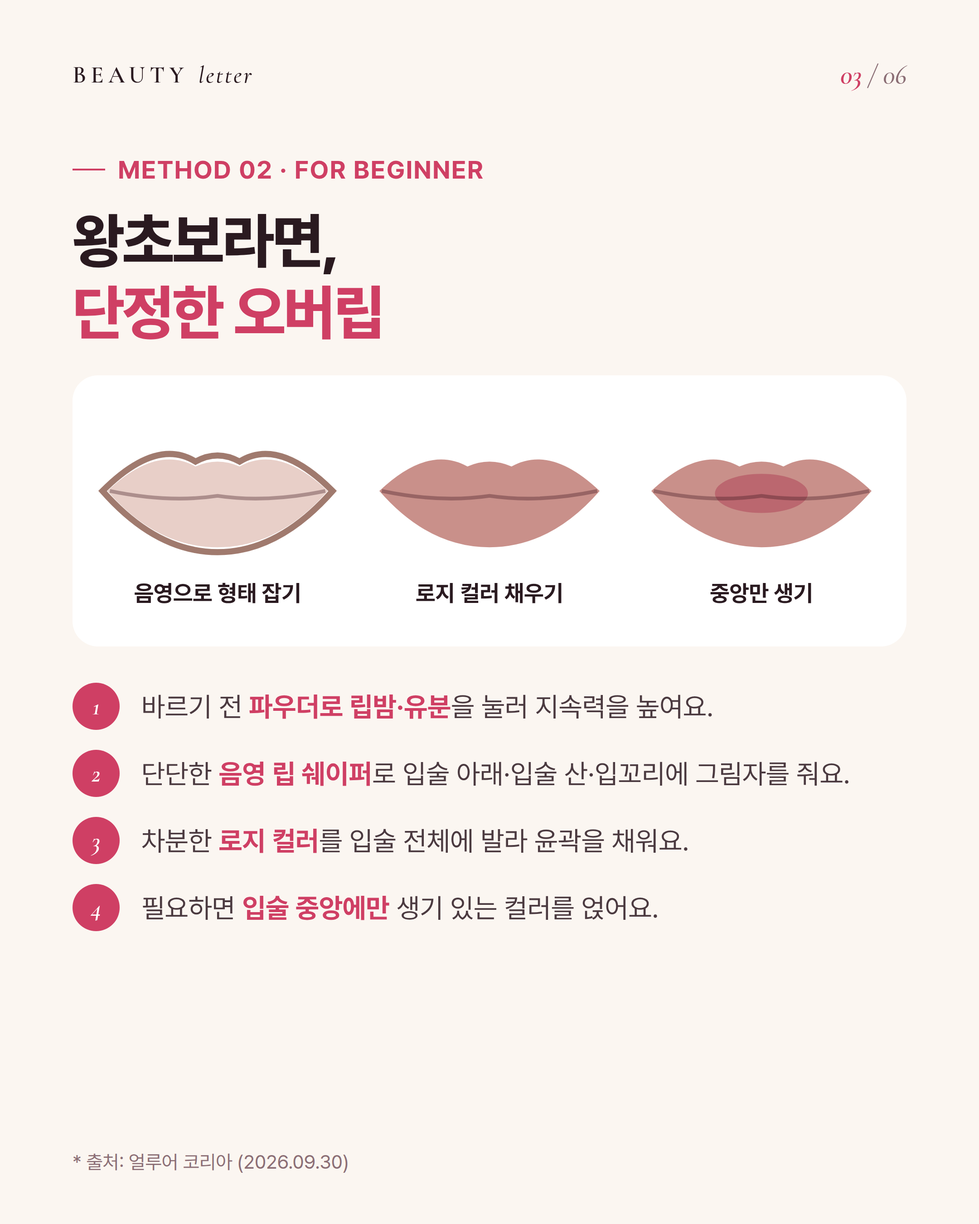
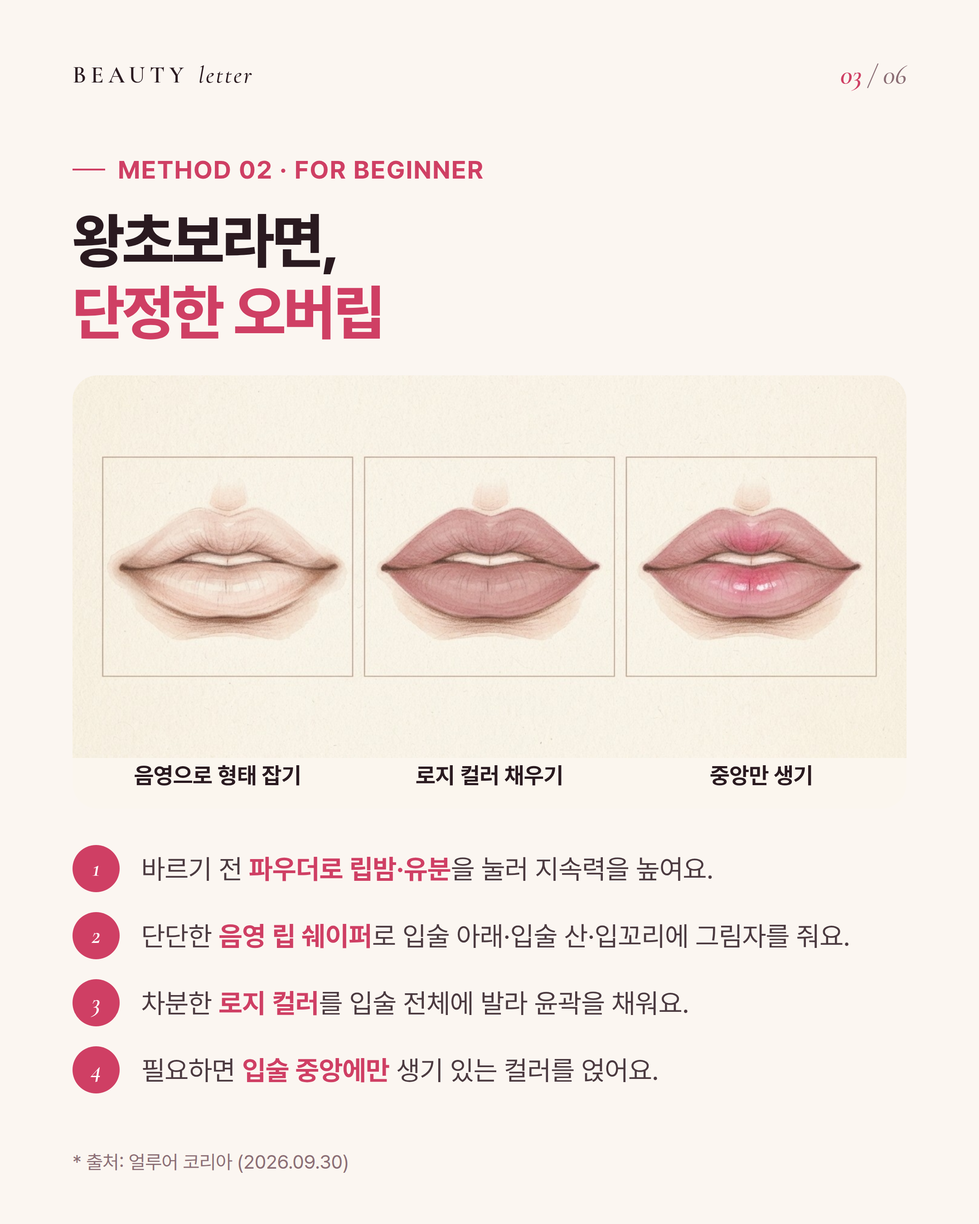
뷰티레터: 10/5·10/6 예시 그림을 수채화 일러스트로 교체
Claude-Session: https://claude.ai/code/session_01M29FXMb16fvzM5BCrcufte

diff --git a/design/beauty_news/letters/2026-10-05_pm_lip/slides.html b/design/beauty_news/letters/2026-10-05_pm_lip/slides.html
@@ -15,13 +15,13 @@
   <div class="body"><div class="kicker"><span class="cat">Issue Letter</span><span class="sep">·</span><span>MEOLMEOL LIP</span></div><h1>요즘 다들 바르는<br/><span class="em">'멀멀 립'</span> 만드는 법</h1><p class="sub">펜슬, 틴트, 글로스까지 차곡차곡.<br/>4가지 방법을 담았어요.</p></div>
   </section>
 <section class="card mlip" data-name="02_m1"><div class="topbar"><div class="wordmark" style="font-size:26px;letter-spacing:5px">BEAUTY <i>letter</i></div><div class="pageno"><b>02</b> / 06</div></div><div class="kicker">METHOD 01 · BLUR + GLOSS</div><h2>블러 틴트 깔고,<br/><span class="hl">채도는 낮추고</span></h2>
-<div class="vis"><div><div class="l"><svg viewBox="0 0 200 106" width="200"><path d="M10 50 Q50 12 82 30 Q100 22 118 30 Q150 12 190 50 Q150 96 100 96 Q50 96 10 50 Z" fill="#E9C9C3"/><path d="M12 50 Q60 60 100 54 Q140 60 188 50" stroke="rgba(60,20,30,.35)" stroke-width="3" fill="none"/><path d="M6 50 Q50 6 82 26 Q100 16 118 26 Q150 6 194 50 Q150 100 100 100 Q50 100 6 50 Z" fill="none" stroke="#9B6E7E" stroke-width="5"/></svg></div><span>모브 펜슬로 오버립</span></div><div><div class="l"><svg viewBox="0 0 200 106" width="200"><path d="M10 50 Q50 12 82 30 Q100 22 118 30 Q150 12 190 50 Q150 96 100 96 Q50 96 10 50 Z" fill="#C98D86"/><path d="M12 50 Q60 60 100 54 Q140 60 188 50" stroke="rgba(60,20,30,.35)" stroke-width="3" fill="none"/></svg></div><span>블러 틴트 베이스</span></div><div><div class="l"><svg viewBox="0 0 200 106" width="200"><path d="M10 50 Q50 12 82 30 Q100 22 118 30 Q150 12 190 50 Q150 96 100 96 Q50 96 10 50 Z" fill="#CDA39D"/><path d="M12 50 Q60 60 100 54 Q140 60 188 50" stroke="rgba(60,20,30,.35)" stroke-width="3" fill="none"/><ellipse cx="100" cy="68" rx="34" ry="7" fill="rgba(255,255,255,.45)"/></svg></div><span>글로스로 물먹립</span></div></div><ol><li><b>1</b><p><b>모브 톤 립 펜슬</b>로 입술 라인을 넓혀 원하는 오버립 윤곽을 잡아요.</p></li><li><b>2</b><p>주름을 메워주는 보송한 <b>블러 틴트</b>를 베이스로 넓게 깔아요.</p></li><li><b>3</b><p>색이 너무 쨍하면 <b>흰기 도는 투명한 립</b>을 덧발라 채도를 낮춰요.</p></li><li><b>4</b><p>마지막에 <b>바닐라 빛 볼륨 글로스</b>를 은은하게 얹어요.</p></li></ol><div class="foot">* 출처: 얼루어 코리아 (2026.09.30)</div></section>
+<div class="vis illu"><img src="img/illu_m1.jpg" alt=""/><div class="lb"><span>모브 펜슬로 오버립</span><span>블러 틴트 베이스</span><span>글로스로 물먹립</span></div></div><ol><li><b>1</b><p><b>모브 톤 립 펜슬</b>로 입술 라인을 넓혀 원하는 오버립 윤곽을 잡아요.</p></li><li><b>2</b><p>주름을 메워주는 보송한 <b>블러 틴트</b>를 베이스로 넓게 깔아요.</p></li><li><b>3</b><p>색이 너무 쨍하면 <b>흰기 도는 투명한 립</b>을 덧발라 채도를 낮춰요.</p></li><li><b>4</b><p>마지막에 <b>바닐라 빛 볼륨 글로스</b>를 은은하게 얹어요.</p></li></ol><div class="foot">* 출처: 얼루어 코리아 (2026.09.30)</div></section>
 <section class="card mlip" data-name="03_m2"><div class="topbar"><div class="wordmark" style="font-size:26px;letter-spacing:5px">BEAUTY <i>letter</i></div><div class="pageno"><b>03</b> / 06</div></div><div class="kicker">METHOD 02 · FOR BEGINNER</div><h2>왕초보라면,<br/><span class="hl">단정한 오버립</span></h2>
-<div class="vis"><div><div class="l"><svg viewBox="0 0 200 106" width="200"><path d="M10 50 Q50 12 82 30 Q100 22 118 30 Q150 12 190 50 Q150 96 100 96 Q50 96 10 50 Z" fill="#E8CFC8"/><path d="M12 50 Q60 60 100 54 Q140 60 188 50" stroke="rgba(60,20,30,.35)" stroke-width="3" fill="none"/><path d="M6 50 Q50 6 82 26 Q100 16 118 26 Q150 6 194 50 Q150 100 100 100 Q50 100 6 50 Z" fill="none" stroke="#A07A6E" stroke-width="5"/></svg></div><span>음영으로 형태 잡기</span></div><div><div class="l"><svg viewBox="0 0 200 106" width="200"><path d="M10 50 Q50 12 82 30 Q100 22 118 30 Q150 12 190 50 Q150 96 100 96 Q50 96 10 50 Z" fill="#C9908A"/><path d="M12 50 Q60 60 100 54 Q140 60 188 50" stroke="rgba(60,20,30,.35)" stroke-width="3" fill="none"/></svg></div><span>로지 컬러 채우기</span></div><div><div class="l"><svg viewBox="0 0 200 106" width="200"><path d="M10 50 Q50 12 82 30 Q100 22 118 30 Q150 12 190 50 Q150 96 100 96 Q50 96 10 50 Z" fill="#C9908A"/><ellipse cx="100" cy="52" rx="38" ry="16" fill="#B8606A" opacity=".85"/><path d="M12 50 Q60 60 100 54 Q140 60 188 50" stroke="rgba(60,20,30,.35)" stroke-width="3" fill="none"/></svg></div><span>중앙만 생기</span></div></div><ol><li><b>1</b><p>바르기 전 <b>파우더로 립밤·유분</b>을 눌러 지속력을 높여요.</p></li><li><b>2</b><p>단단한 <b>음영 립 쉐이퍼</b>로 입술 아래·입술 산·입꼬리에 그림자를 줘요.</p></li><li><b>3</b><p>차분한 <b>로지 컬러</b>를 입술 전체에 발라 윤곽을 채워요.</p></li><li><b>4</b><p>필요하면 <b>입술 중앙에만</b> 생기 있는 컬러를 얹어요.</p></li></ol><div class="foot">* 출처: 얼루어 코리아 (2026.09.30)</div></section>
+<div class="vis illu"><img src="img/illu_m2.jpg" alt=""/><div class="lb"><span>음영으로 형태 잡기</span><span>로지 컬러 채우기</span><span>중앙만 생기</span></div></div><ol><li><b>1</b><p>바르기 전 <b>파우더로 립밤·유분</b>을 눌러 지속력을 높여요.</p></li><li><b>2</b><p>단단한 <b>음영 립 쉐이퍼</b>로 입술 아래·입술 산·입꼬리에 그림자를 줘요.</p></li><li><b>3</b><p>차분한 <b>로지 컬러</b>를 입술 전체에 발라 윤곽을 채워요.</p></li><li><b>4</b><p>필요하면 <b>입술 중앙에만</b> 생기 있는 컬러를 얹어요.</p></li></ol><div class="foot">* 출처: 얼루어 코리아 (2026.09.30)</div></section>
 <section class="card mlip" data-name="04_m3"><div class="topbar"><div class="wordmark" style="font-size:26px;letter-spacing:5px">BEAUTY <i>letter</i></div><div class="pageno"><b>04</b> / 06</div></div><div class="kicker">METHOD 03 · MIX</div><h2>안 쓰는 쨍한 립,<br/><span class="hl">미지근하게 살리기</span></h2>
-<div class="vis"><div><div class="l"><svg viewBox="0 0 200 106" width="200"><path d="M10 50 Q50 12 82 30 Q100 22 118 30 Q150 12 190 50 Q150 96 100 96 Q50 96 10 50 Z" fill="#D9B2A8"/><path d="M12 50 Q60 60 100 54 Q140 60 188 50" stroke="rgba(60,20,30,.35)" stroke-width="3" fill="none"/></svg></div><span>누드 핑크 베이스</span></div><div><div class="l"><svg viewBox="0 0 200 106" width="200"><path d="M10 50 Q50 12 82 30 Q100 22 118 30 Q150 12 190 50 Q150 96 100 96 Q50 96 10 50 Z" fill="#D9B2A8"/><ellipse cx="100" cy="52" rx="38" ry="16" fill="#D0364E" opacity=".85"/><path d="M12 50 Q60 60 100 54 Q140 60 188 50" stroke="rgba(60,20,30,.35)" stroke-width="3" fill="none"/></svg></div><span>안쪽만 고채도</span></div><div><div class="l"><svg viewBox="0 0 200 106" width="200"><path d="M10 50 Q50 12 82 30 Q100 22 118 30 Q150 12 190 50 Q150 96 100 96 Q50 96 10 50 Z" fill="#B4787A"/><path d="M12 50 Q60 60 100 54 Q140 60 188 50" stroke="rgba(60,20,30,.35)" stroke-width="3" fill="none"/></svg></div><span>섞으면 미지근톤</span></div></div><ol><li><b>1</b><p><b>베이지 핑크·누드 핑크</b>를 베이스로 넓게 깔아요.</p></li><li><b>2</b><p>그 위 <b>입술 안쪽에만</b> 쨍한 립을 두드려 얹어요.</p></li><li><b>3</b><p>또는 회색빛 도는 <b>창백한 쿨톤 립</b>과 쨍한 립을 섞어 직접 조색해요.</p></li></ol><div class="foot">* 출처: 얼루어 코리아 (2026.09.30)</div></section>
+<div class="vis illu"><img src="img/illu_m3.jpg" alt=""/><div class="lb"><span>누드 핑크 베이스</span><span>안쪽만 고채도</span><span>섞으면 미지근톤</span></div></div><ol><li><b>1</b><p><b>베이지 핑크·누드 핑크</b>를 베이스로 넓게 깔아요.</p></li><li><b>2</b><p>그 위 <b>입술 안쪽에만</b> 쨍한 립을 두드려 얹어요.</p></li><li><b>3</b><p>또는 회색빛 도는 <b>창백한 쿨톤 립</b>과 쨍한 립을 섞어 직접 조색해요.</p></li></ol><div class="foot">* 출처: 얼루어 코리아 (2026.09.30)</div></section>
 <section class="card mlip" data-name="05_m4"><div class="topbar"><div class="wordmark" style="font-size:26px;letter-spacing:5px">BEAUTY <i>letter</i></div><div class="pageno"><b>05</b> / 06</div></div><div class="kicker">METHOD 04 · MATTE</div><h2>가을엔 톡톡,<br/><span class="hl">매트 오버립</span></h2>
-<div class="vis"><div><div class="l"><svg viewBox="0 0 200 106" width="200"><path d="M10 50 Q50 12 82 30 Q100 22 118 30 Q150 12 190 50 Q150 96 100 96 Q50 96 10 50 Z" fill="#E6CFC6"/><path d="M12 50 Q60 60 100 54 Q140 60 188 50" stroke="rgba(60,20,30,.35)" stroke-width="3" fill="none"/><path d="M6 50 Q50 6 82 26 Q100 16 118 26 Q150 6 194 50 Q150 100 100 100 Q50 100 6 50 Z" fill="none" stroke="#B07E62" stroke-width="5"/></svg></div><span>피치·브라운 펜슬</span></div><div><div class="l"><svg viewBox="0 0 200 106" width="200"><path d="M10 50 Q50 12 82 30 Q100 22 118 30 Q150 12 190 50 Q150 96 100 96 Q50 96 10 50 Z" fill="#A8705C"/><path d="M12 50 Q60 60 100 54 Q140 60 188 50" stroke="rgba(60,20,30,.35)" stroke-width="3" fill="none"/></svg></div><span>브라운 매트 톡톡</span></div><div><div class="l"><svg viewBox="0 0 200 106" width="200"><path d="M10 50 Q50 12 82 30 Q100 22 118 30 Q150 12 190 50 Q150 96 100 96 Q50 96 10 50 Z" fill="#A8705C"/><ellipse cx="100" cy="52" rx="38" ry="16" fill="#8E5A48" opacity=".85"/><path d="M12 50 Q60 60 100 54 Q140 60 188 50" stroke="rgba(60,20,30,.35)" stroke-width="3" fill="none"/></svg></div><span>도톰하면 안쪽만</span></div></div><ol><li><b>1</b><p>파운데이션으로 덮지 말고 <b>피치·브라운 펜슬</b>로 칙칙한 입술 라인부터 교정해요.</p></li><li><b>2</b><p><b>베이지·브라운 매트 립</b>을 손가락이나 브러시로 톡톡 얇게 밀착해요.</p></li><li><b>3</b><p>라인이 진해 보이지 않게 <b>펜슬로 경계를 한 번 더 풀어요.</b></p></li><li><b>4</b><p>입술이 도톰하면 <b>안쪽에만</b> 발라 여백을 남겨요.</p></li></ol><div class="foot">* 출처: 얼루어 코리아 (2026.09.30)</div></section>
+<div class="vis illu"><img src="img/illu_m4.jpg" alt=""/><div class="lb"><span>피치·브라운 펜슬</span><span>브라운 매트 톡톡</span><span>도톰하면 안쪽만</span></div></div><ol><li><b>1</b><p>파운데이션으로 덮지 말고 <b>피치·브라운 펜슬</b>로 칙칙한 입술 라인부터 교정해요.</p></li><li><b>2</b><p><b>베이지·브라운 매트 립</b>을 손가락이나 브러시로 톡톡 얇게 밀착해요.</p></li><li><b>3</b><p>라인이 진해 보이지 않게 <b>펜슬로 경계를 한 번 더 풀어요.</b></p></li><li><b>4</b><p>입술이 도톰하면 <b>안쪽에만</b> 발라 여백을 남겨요.</p></li></ol><div class="foot">* 출처: 얼루어 코리아 (2026.09.30)</div></section>
 
 <section class="card ps" data-name="06_ps"><div class="bgimg"><img src="img/cover_photo.jpg" alt="" /></div><div class="wordmark">BEAUTY <i>letter</i></div>
   <div class="inner"><div class="ps-mark">P.S.</div><div class="note"><div class="label">에디터의 한 줄 팁</div><p>멀멀 립의 핵심은 <b>채도 낮추기.</b> 새로 사지 말고<br/>갖고 있는 쨍한 립에 누드 핑크를 섞어 먼저 만들어 보세요.</p></div>

diff --git a/design/beauty_news/letters/2026-10-06_am_uleok/slides.html b/design/beauty_news/letters/2026-10-06_am_uleok/slides.html
@@ -14,9 +14,9 @@
 <section class="card cover-photo" data-name="01_cover"><div data-slot="photo"><img src="img/cover_photo.jpg" alt="" style="object-position:center 30%" /></div><div class="shade"></div><div class="topbar"><div class="wordmark">BEAUTY <i>letter</i></div></div>
   <div class="body"><div class="kicker"><span class="cat">Issue Letter</span><span class="sep">·</span><span>ULEOK MAKEUP</span></div><h1>우는 것도 예쁘게,<br/><span class="em">'울먹' 메이크업</span></h1><p class="sub">울고 난 듯 발그레한 눈가와 코끝.<br/>아련한 가을 얼굴 만드는 법.</p></div>
   </section>
-<section class="card lt" data-name="02_what"><div class="topbar"><div class="wordmark" style="font-size:26px;letter-spacing:5px">BEAUTY <i>letter</i></div><div class="pageno"><b>02</b> / 06</div></div><div class="kicker">WHAT IS ULEOK</div><h2>낮술 다음은,<br/><span class="hl">울먹</span></h2><div class="vis"><div class="off"><svg viewBox="0 0 240 280" width="300"><defs><radialGradient id="rn"><stop offset="0" stop-color="#E0626F" stop-opacity=".75"/><stop offset="1" stop-color="#E0626F" stop-opacity="0"/></radialGradient></defs><path d="M30 120 Q30 20 120 18 Q210 20 210 120 L214 250 L26 250 Z" fill="#3A2A24"/><ellipse cx="120" cy="148" rx="76" ry="96" fill="#F3D6C4"/><path d="M48 104 Q60 40 120 40 Q180 40 192 104 Q160 70 120 72 Q80 70 48 104 Z" fill="#3A2A24"/><ellipse cx="86" cy="160" rx="28" ry="16" fill="url(#rn)"/><ellipse cx="154" cy="160" rx="28" ry="16" fill="url(#rn)"/><path d="M66 116 Q84 106 102 114" stroke="#5A3D32" stroke-width="5" fill="none" stroke-linecap="round"/><path d="M138 114 Q156 106 174 116" stroke="#5A3D32" stroke-width="5" fill="none" stroke-linecap="round"/><path d="M70 138 Q85 128 100 138" stroke="#3A2A24" stroke-width="4" fill="none" stroke-linecap="round"/><path d="M140 138 Q155 128 170 138" stroke="#3A2A24" stroke-width="4" fill="none" stroke-linecap="round"/><path d="M118 150 Q114 176 110 182 Q120 188 130 182" stroke="#C9A08C" stroke-width="3" fill="none" stroke-linecap="round"/><path d="M98 206 Q120 198 142 206 Q120 222 98 206 Z" fill="#D88A86"/></svg><span>낮술 · 눈 밑만 발그레</span></div><div class="on"><svg viewBox="0 0 240 280" width="300"><defs><radialGradient id="ru"><stop offset="0" stop-color="#E0626F" stop-opacity=".75"/><stop offset="1" stop-color="#E0626F" stop-opacity="0"/></radialGradient></defs><path d="M30 120 Q30 20 120 18 Q210 20 210 120 L214 250 L26 250 Z" fill="#3A2A24"/><ellipse cx="120" cy="148" rx="76" ry="96" fill="#F3D6C4"/><path d="M48 104 Q60 40 120 40 Q180 40 192 104 Q160 70 120 72 Q80 70 48 104 Z" fill="#3A2A24"/><ellipse cx="85" cy="128" rx="24" ry="12" fill="url(#ru)"/><ellipse cx="155" cy="128" rx="24" ry="12" fill="url(#ru)"/><ellipse cx="85" cy="150" rx="24" ry="10" fill="url(#ru)"/><ellipse cx="155" cy="150" rx="24" ry="10" fill="url(#ru)"/><ellipse cx="120" cy="180" rx="16" ry="11" fill="url(#ru)"/><ellipse cx="98" cy="208" rx="10" ry="8" fill="url(#ru)"/><ellipse cx="142" cy="208" rx="10" ry="8" fill="url(#ru)"/><ellipse cx="84" cy="112" rx="18" ry="7" fill="url(#ru)"/><ellipse cx="156" cy="112" rx="18" ry="7" fill="url(#ru)"/><path d="M66 116 Q84 106 102 114" stroke="#5A3D32" stroke-width="5" fill="none" stroke-linecap="round"/><path d="M138 114 Q156 106 174 116" stroke="#5A3D32" stroke-width="5" fill="none" stroke-linecap="round"/><path d="M70 138 Q85 128 100 138" stroke="#3A2A24" stroke-width="4" fill="none" stroke-linecap="round"/><path d="M140 138 Q155 128 170 138" stroke="#3A2A24" stroke-width="4" fill="none" stroke-linecap="round"/><path d="M118 150 Q114 176 110 182 Q120 188 130 182" stroke="#C9A08C" stroke-width="3" fill="none" stroke-linecap="round"/><path d="M98 206 Q120 198 142 206 Q120 222 98 206 Z" fill="#D88A86"/></svg><span>울먹 · 눈가·코끝·입가</span></div></div><p class="ds">눈 밑만 물들이던 낮술 메이크업 다음 유행은 <b>울고 난 것처럼</b> 눈과 코 주변이 붉은 울먹 메이크업이에요.</p><div class="tip"><span>POINT</span>붉은 기를 넓게 펴지 말고, 눈가·코끝·입가에 조금씩 나눠 얹어요.</div><div class="foot">* 출처: 얼루어 코리아 (2026.10.02)</div></section>
+<section class="card lt" data-name="02_what"><div class="topbar"><div class="wordmark" style="font-size:26px;letter-spacing:5px">BEAUTY <i>letter</i></div><div class="pageno"><b>02</b> / 06</div></div><div class="kicker">WHAT IS ULEOK</div><h2>낮술 다음은,<br/><span class="hl">울먹</span></h2><div class="vis illu"><img src="img/illu_what.jpg" alt=""/><div class="lb"><span>낮술 · 눈 밑만 발그레</span><span class="on">울먹 · 눈가·코끝·입가</span></div></div><p class="ds">눈 밑만 물들이던 낮술 메이크업 다음 유행은 <b>울고 난 것처럼</b> 눈과 코 주변이 붉은 울먹 메이크업이에요.</p><div class="tip"><span>POINT</span>붉은 기를 넓게 펴지 말고, 눈가·코끝·입가에 조금씩 나눠 얹어요.</div><div class="foot">* 출처: 얼루어 코리아 (2026.10.02)</div></section>
 <section class="card lt" data-name="03_m1"><div class="topbar"><div class="wordmark" style="font-size:26px;letter-spacing:5px">BEAUTY <i>letter</i></div><div class="pageno"><b>03</b> / 06</div></div><div class="kicker">METHOD 01 · ROSE SHADOW</div><h2>장미빛 섀도 하나로<br/><span class="hl">살짝 쓸어주기</span></h2><div class="vis photo"><img src="img/palette.jpg" alt="" style="object-position:center 55%"/><div class="chips"><div><i style="background:#C9A48C"></i><span>베이지</span></div><div><i style="background:#E7A9A9"></i><span>핑크</span></div><div><i style="background:#B9606B"></i><span>장미빛</span></div></div></div><ol><li><b>1</b><p>눈두덩엔 <b>베이지·브라운</b> 섀도로 차분하게 베이스를 깔아요.</p></li><li><b>2</b><p>언더(눈 밑)는 <b>핑크 톤</b>으로 은은하게 잡아요.</p></li><li><b>3</b><p><b>장미빛 섀도</b>를 코끝·입가·눈썹·눈두덩에 브러시로 가볍게 쓸어줘요.</p></li></ol><div class="foot">* 출처: 얼루어 코리아 (2026.10.02)</div></section>
-<section class="card lt" data-name="04_m2"><div class="topbar"><div class="wordmark" style="font-size:26px;letter-spacing:5px">BEAUTY <i>letter</i></div><div class="pageno"><b>04</b> / 06</div></div><div class="kicker">METHOD 02 · PEACH PENCIL</div><h2>살구빛 펜슬 하나면<br/><span class="hl">눈도 입술도 끝</span></h2><div class="vis eyelip"><div><svg viewBox="0 0 200 100" width="330"><rect width="200" height="100" fill="#F3D6C4" rx="18"/><path d="M28 50 Q100 0 172 50 Q100 28 28 50 Z" fill="#E7A58C" opacity=".8"/><path d="M30 52 Q100 6 170 52 Q100 82 30 52 Z" fill="#fff"/><circle cx="100" cy="50" r="20" fill="#4A3428"/><circle cx="106" cy="44" r="5" fill="#fff"/><path d="M30 52 Q100 6 170 52" stroke="#2A1A14" stroke-width="5" fill="none"/><path d="M44 62 Q100 76 156 62" stroke="#E2B7A6" stroke-width="5" fill="none"/><ellipse cx="100" cy="74" rx="56" ry="9" fill="rgba(150,95,80,.45)"/></svg><span>애굣살 밑 그림자</span></div><div><svg viewBox="0 0 200 106" width="330"><path d="M10 50 Q50 12 82 30 Q100 22 118 30 Q150 12 190 50 Q150 96 100 96 Q50 96 10 50 Z" fill="#E0A08E"/><path d="M12 50 Q60 60 100 54 Q140 60 188 50" stroke="rgba(60,20,30,.35)" stroke-width="3" fill="none"/><path d="M6 50 Q50 10 100 24 Q150 10 194 50 Q150 100 100 100 Q50 100 6 50 Z" fill="none" stroke="#D99A84" stroke-width="7" opacity=".9"/></svg><span>입술산 허문 오버립</span></div></div><ol><li><b>1</b><p>보송한 <b>벨벳 제형의 살구빛 펜슬</b>을 하나 준비해요.</p></li><li><b>2</b><p><b>애굣살 바로 밑</b>에 살짝 그어 그림자처럼 음영을 줘요.</p></li><li><b>3</b><p>입술 산을 또렷하게 그리지 말고 <b>허물듯 둥글게 오버립</b>을 그려요.</p></li></ol><div class="foot">* 출처: 얼루어 코리아 (2026.10.02)</div></section>
+<section class="card lt" data-name="04_m2"><div class="topbar"><div class="wordmark" style="font-size:26px;letter-spacing:5px">BEAUTY <i>letter</i></div><div class="pageno"><b>04</b> / 06</div></div><div class="kicker">METHOD 02 · PEACH PENCIL</div><h2>살구빛 펜슬 하나면<br/><span class="hl">눈도 입술도 끝</span></h2><div class="vis illu"><img src="img/illu_m2.jpg" alt=""/><div class="lb"><span>애굣살 밑 그림자</span><span>입술산 허문 오버립</span></div></div><ol><li><b>1</b><p>보송한 <b>벨벳 제형의 살구빛 펜슬</b>을 하나 준비해요.</p></li><li><b>2</b><p><b>애굣살 바로 밑</b>에 살짝 그어 그림자처럼 음영을 줘요.</p></li><li><b>3</b><p>입술 산을 또렷하게 그리지 말고 <b>허물듯 둥글게 오버립</b>을 그려요.</p></li></ol><div class="foot">* 출처: 얼루어 코리아 (2026.10.02)</div></section>
 <section class="card lt" data-name="05_tone"><div class="topbar"><div class="wordmark" style="font-size:26px;letter-spacing:5px">BEAUTY <i>letter</i></div><div class="pageno"><b>05</b> / 06</div></div><div class="kicker">PERSONAL COLOR TIP</div><h2>내 톤엔 어떤<br/><span class="hl">울먹 컬러?</span></h2><div class="tone"><div><h3>쿨톤<small>푸른 기 도는 붉은색</small></h3><div class="cs"><div><i style="background:#D98A9A"></i><span>로즈 핑크</span></div><div><i style="background:#B9606B"></i><span>장미빛</span></div><div><i style="background:#A8687E"></i><span>모브</span></div></div></div><div><h3>웜톤<small>노란 기 도는 붉은색</small></h3><div class="cs"><div><i style="background:#E8A48A"></i><span>살구</span></div><div><i style="background:#E08A78"></i><span>코랄</span></div><div><i style="background:#C27E68"></i><span>말린 장미</span></div></div></div></div><div class="tip"><span>주의</span>울먹과 술 취한 얼굴은 한 끗 차이. 욕심내지 말고 <b>얇게, 여러 번</b> 쌓아요.</div><div class="foot">* 컬러칩은 이해를 돕기 위한 예시예요</div></section>
 
 <section class="card ps" data-name="06_ps"><div class="bgimg"><img src="img/cover_photo.jpg" alt="" /></div><div class="wordmark">BEAUTY <i>letter</i></div>

diff --git a/design/beauty_news/letters/2026-10-05_am_trend/slides.html b/design/beauty_news/letters/2026-10-05_am_trend/slides.html
@@ -15,15 +15,15 @@
   <div class="body"><div class="kicker"><span class="cat">Issue Letter</span><span class="sep">·</span><span>FALL MAKEUP TREND</span></div><h1>올가을 메이크업,<br/><span class="em">더하기보다 빼기</span></h1><p class="sub">가을 메이크업 트렌드 5가지,<br/>이것만 기억하세요.</p></div>
   </section>
 <section class="card trend" data-name="02_t1"><div class="topbar"><div class="wordmark" style="font-size:26px;letter-spacing:5px">BEAUTY <i>letter</i></div><div class="pageno"><b>02</b> / 07</div></div><div class="kicker">TREND 01 · BROW</div><h2>가장 먼저 바꿀 건,<br/><span class="hl">얇은 눈썹</span></h2>
-<div class="vis"><div class="cmp"><div><svg viewBox="0 0 200 60" width="240"><path d="M10 45 Q70 8 150 18 Q180 22 192 34 Q170 30 150 32 Q80 30 18 56 Z" fill="#4A3428"/></svg><span>이전 · 두껍고 일자</span></div><div class="on"><svg viewBox="0 0 200 60" width="240"><path d="M14 48 Q80 2 190 30 Q90 14 16 52 Z" fill="#4A3428"/></svg><span>올가을 · 얇은 아치형</span></div></div></div><p class="ds">90년대 무드의 가느다란 아치형 눈썹. 펜으로 그린 듯 얇은 눈썹이 <b>답답해 보이던 인상을 가볍게</b> 만들어줘요.</p><div class="tip"><span>TIP</span>인상이 답답해 보였다면 눈썹부터 얇게 다듬어 보세요.</div><div class="foot">* 출처: 얼루어 코리아 (2026.09.27)</div></section>
+<div class="vis illu"><img src="img/illu_t1.jpg" alt=""/><div class="lb"><span>이전 · 두껍고 일자</span><span class="on">올가을 · 얇은 아치형</span></div></div><p class="ds">90년대 무드의 가느다란 아치형 눈썹. 펜으로 그린 듯 얇은 눈썹이 <b>답답해 보이던 인상을 가볍게</b> 만들어줘요.</p><div class="tip"><span>TIP</span>인상이 답답해 보였다면 눈썹부터 얇게 다듬어 보세요.</div><div class="foot">* 출처: 얼루어 코리아 (2026.09.27)</div></section>
 <section class="card trend" data-name="03_t2"><div class="topbar"><div class="wordmark" style="font-size:26px;letter-spacing:5px">BEAUTY <i>letter</i></div><div class="pageno"><b>03</b> / 07</div></div><div class="kicker">TREND 02 · LIP</div><h2>가을엔 레드립?<br/>이젠 <span class="hl">멀멀한 누드 립</span></h2>
 <div class="vis photo"><img src="img/lip_photo.jpg" alt=""/><div class="chips"><div><i style="background:#C9967E"></i><span>베이지</span></div><div><i style="background:#8E5A45"></i><span>브라운</span></div><div><i style="background:#A9665F"></i><span>로즈 브라운</span></div></div></div><p class="ds">베이지·브라운·로즈 브라운처럼 차분한 컬러. 존재감을 강하게 주장하지 않지만 <b>묘하게 기억에 남는</b> 색이에요.</p><div class="tip"><span>TIP</span>생기가 살짝 느껴질 정도의 차분한 컬러를 고르세요.</div><div class="foot">* 출처: 얼루어 코리아 (2026.09.27)</div></section>
 <section class="card trend" data-name="04_t3"><div class="topbar"><div class="wordmark" style="font-size:26px;letter-spacing:5px">BEAUTY <i>letter</i></div><div class="pageno"><b>04</b> / 07</div></div><div class="kicker">TREND 03 · CHEEK</div><h2>치크는 빼거나,<br/><span class="hl">아주 얇게</span></h2>
-<div class="vis"><div class="cmp"><div class="ck"><div class="face"><i style="opacity:0.75"></i><i class="r" style="opacity:0.75"></i></div><span>여름 · 썬번 블러셔</span></div><div class="on"><div class="ck"><div class="face"><i style="opacity:0.12"></i><i class="r" style="opacity:0.12"></i></div><span>올가을 · 있는 듯 없는 듯</span></div></div></div></div><p class="ds">여름의 썬번 메이크업과 정반대. 치크를 생략하거나 <b>있는 듯 없는 듯</b> 아주 얇게 올리는 안티 블러시예요.</p><div class="tip"><span>TIP</span>치크를 빼는 대신 립이나 눈에 포인트를 주세요.</div><div class="foot">* 출처: 얼루어 코리아 (2026.09.27)</div></section>
+<div class="vis illu"><img src="img/illu_t3.jpg" alt=""/><div class="lb"><span>여름 · 썬번 블러셔</span><span class="on">올가을 · 있는 듯 없는 듯</span></div></div><p class="ds">여름의 썬번 메이크업과 정반대. 치크를 생략하거나 <b>있는 듯 없는 듯</b> 아주 얇게 올리는 안티 블러시예요.</p><div class="tip"><span>TIP</span>치크를 빼는 대신 립이나 눈에 포인트를 주세요.</div><div class="foot">* 출처: 얼루어 코리아 (2026.09.27)</div></section>
 <section class="card trend" data-name="05_t4"><div class="topbar"><div class="wordmark" style="font-size:26px;letter-spacing:5px">BEAUTY <i>letter</i></div><div class="pageno"><b>05</b> / 07</div></div><div class="kicker">TREND 04 · SKIN</div><h2>물광도 매트도 아닌,<br/><span class="hl">세미 글로우</span></h2>
-<div class="vis"><div class="skins"><div class="sk"><i class="matte"></i><span>매트</span></div><div class="on"><div class="sk"><i class="semi"></i><span>세미 글로우</span></div></div><div class="sk"><i class="dewy"></i><span>물광</span></div></div></div><p class="ds">피부 결은 살리면서 은은한 유리알 광택. <b>어떤 룩에도 자연스럽게</b> 어울리는 게 장점이에요.</p><div class="tip"><span>TIP</span>메이크업 전 보습을 충분히, 그다음 촉촉한 파운데이션을 올려요.</div><div class="foot">* 출처: 얼루어 코리아 (2026.09.27)</div></section>
+<div class="vis illu"><img src="img/illu_t4.jpg" alt=""/><div class="lb"><span>매트</span><span class="on">세미 글로우</span><span>물광</span></div></div><p class="ds">피부 결은 살리면서 은은한 유리알 광택. <b>어떤 룩에도 자연스럽게</b> 어울리는 게 장점이에요.</p><div class="tip"><span>TIP</span>메이크업 전 보습을 충분히, 그다음 촉촉한 파운데이션을 올려요.</div><div class="foot">* 출처: 얼루어 코리아 (2026.09.27)</div></section>
 <section class="card trend" data-name="06_t5"><div class="topbar"><div class="wordmark" style="font-size:26px;letter-spacing:5px">BEAUTY <i>letter</i></div><div class="pageno"><b>06</b> / 07</div></div><div class="kicker">TREND 05 · EYE</div><h2>포인트 하나는<br/><span class="hl">파스텔 아이</span></h2>
-<div class="vis"><div class="pastel"><div><i style="background:radial-gradient(circle at 35% 30%, #fff 0%, #BFE8D8 45%, #8CCDB6 100%)"></i><span>민트</span></div><div><i style="background:radial-gradient(circle at 35% 30%, #fff 0%, #DCC8EE 45%, #B79BD8 100%)"></i><span>라일락</span></div><div><i style="background:radial-gradient(circle at 35% 30%, #fff 0%, #C6DDF5 45%, #93B9E4 100%)"></i><span>파스텔 블루</span></div></div></div><p class="ds">민트·라일락처럼 평소 잘 안 쓰는 컬러를 포인트로. <b>쉬머 텍스처</b>를 더하면 은은하게 빛나요.</p><div class="tip"><span>TIP</span>처음이라면 눈 앞머리나 눈두덩에만 살짝 올려 시작해요.</div><div class="foot">* 출처: 얼루어 코리아 (2026.09.27)</div></section>
+<div class="vis illu"><img src="img/illu_t5.jpg" alt=""/><div class="lb"><span>민트</span><span>라일락</span><span>파스텔 블루</span></div></div><p class="ds">민트·라일락처럼 평소 잘 안 쓰는 컬러를 포인트로. <b>쉬머 텍스처</b>를 더하면 은은하게 빛나요.</p><div class="tip"><span>TIP</span>처음이라면 눈 앞머리나 눈두덩에만 살짝 올려 시작해요.</div><div class="foot">* 출처: 얼루어 코리아 (2026.09.27)</div></section>
 
 <section class="card ps" data-name="07_ps"><div class="bgimg"><img src="img/cover_photo.jpg" alt="" /></div><div class="wordmark">BEAUTY <i>letter</i></div>
   <div class="inner"><div class="ps-mark">P.S.</div><div class="note"><div class="label">에디터의 한 줄 팁</div><p>다섯 가지를 다 하지 않아도 돼요. <b>치크를 빼고 립을 멀멀하게</b>,<br/>이 두 가지만 바꿔도 가을 얼굴이 돼요.</p></div>

diff --git a/design/beauty_news/letters/2026-10-05_am_trend/extra.css b/design/beauty_news/letters/2026-10-05_am_trend/extra.css
@@ -42,3 +42,9 @@
 .trend .vis.photo .chips > div { display: flex; align-items: center; gap: 10px; background: rgba(255,255,255,.92); border-radius: 999px; padding: 8px 18px 8px 8px; opacity: 1; }
 .trend .vis.photo .chips i { width: 34px; height: 34px; border-radius: 50%; display: block; }
 .trend .vis.photo .chips span { margin: 0; font-size: 22px; }
+
+.card .vis.illu { display: block; padding: 0; height: auto; background: #FBF6EE; border-radius: 28px; overflow: hidden; }
+.card .vis.illu img { display: block; width: 100%; height: auto; }
+.card .vis.illu .lb { display: grid; grid-auto-flow: column; grid-auto-columns: 1fr; padding: 4px 10px 22px; text-align: center; opacity: 1; }
+.card .vis.illu .lb span { display: block; margin: 0; font-size: 25px; font-weight: 700; color: var(--plum); opacity: 1; }
+.card .vis.illu .lb span.on { color: var(--rose); }

diff --git a/design/beauty_news/letters/2026-10-06_am_uleok/extra.css b/design/beauty_news/letters/2026-10-06_am_uleok/extra.css
@@ -44,3 +44,9 @@
 .lt .faces p { font-size: 26px; }
 .lt .tip { margin-top: 30px; }
 .lt .faces em { font-style: normal; color: var(--rose); font-weight: 700; }
+
+.card .vis.illu { display: block; padding: 0; height: auto; background: #FBF6EE; border-radius: 28px; overflow: hidden; }
+.card .vis.illu img { display: block; width: 100%; height: auto; }
+.card .vis.illu .lb { display: grid; grid-auto-flow: column; grid-auto-columns: 1fr; padding: 4px 10px 22px; text-align: center; opacity: 1; }
+.card .vis.illu .lb span { display: block; margin: 0; font-size: 25px; font-weight: 700; color: var(--plum); opacity: 1; }
+.card .vis.illu .lb span.on { color: var(--rose); }

diff --git a/design/beauty_news/letters/2026-10-05_pm_lip/extra.css b/design/beauty_news/letters/2026-10-05_pm_lip/extra.css
@@ -17,3 +17,9 @@
 .mlip li { grid-template-columns: 60px 1fr; }
 .mlip li > b { width: 52px; height: 52px; font-size: 27px; }
 .mlip li p { font-size: 30px; }
+
+.card .vis.illu { display: block; padding: 0; height: auto; background: #FBF6EE; border-radius: 28px; overflow: hidden; }
+.card .vis.illu img { display: block; width: 100%; height: auto; }
+.card .vis.illu .lb { display: grid; grid-auto-flow: column; grid-auto-columns: 1fr; padding: 4px 10px 22px; text-align: center; opacity: 1; }
+.card .vis.illu .lb span { display: block; margin: 0; font-size: 25px; font-weight: 700; color: var(--plum); opacity: 1; }
+.card .vis.illu .lb span.on { color: var(--rose); }

diff --git a/design/beauty_news/letters/2026-10-06_am_uleok/sources.md b/design/beauty_news/letters/2026-10-06_am_uleok/sources.md
@@ -7,3 +7,4 @@
 | img/palette.jpg | Pexels "Make-up Brushes Beside the Eyeshadow Palette" https://www.pexels.com/photo/make-up-brushes-beside-the-eyeshadow-palette-7712437/ |
 
 - 톤별 컬러칩은 퍼스널컬러 일반 원리로 정리한 예시(기사 내용 아님). 얼굴·눈·입술 그림은 SVG 직접 제작. 셀럽·크리에이터 이름은 쓰지 않음.
+- img/illu_*.jpg: Topview AI 생성 수채화 일러스트 (Nano Banana 2 Lite, 2026-10-06, 사용자 요청으로 SVG 예시 교체)

diff --git a/design/beauty_news/letters/2026-10-05_pm_lip/sources.md b/design/beauty_news/letters/2026-10-05_pm_lip/sources.md
@@ -6,3 +6,4 @@
 | 멀멀 립 4가지 방법(블러 틴트+글로스, 왕초보 오버립, 믹스 립, 매트 오버립) | 얼루어 코리아 "요즘 인플루언서 사이에서 유행하는 '멀멀 립' 만드는 비법" (2026.09.30) |
 
 - 입술 그림은 CSS/SVG로 직접 그린 예시. 기사 속 SNS 사진은 쓰지 않음.
+- img/illu_*.jpg: Topview AI 생성 수채화 일러스트 (Nano Banana 2 Lite, 2026-10-06, 사용자 요청으로 SVG 예시 교체)

diff --git a/design/beauty_news/letters/2026-10-05_am_trend/sources.md b/design/beauty_news/letters/2026-10-05_am_trend/sources.md
@@ -7,3 +7,4 @@
 | img/lip_photo.jpg | Pexels "Close-up of Open Lipstick in Hands" https://www.pexels.com/photo/close-up-of-open-lipstick-in-hands-23103541/ |
 
 - 눈썹·입술·볼·피부 그림은 CSS/SVG로 직접 그린 예시. 셀럽 이름·사진은 쓰지 않음.
+- img/illu_*.jpg: Topview AI 생성 수채화 일러스트 (Nano Banana 2 Lite, 2026-10-06, 사용자 요청으로 SVG 예시 교체)
